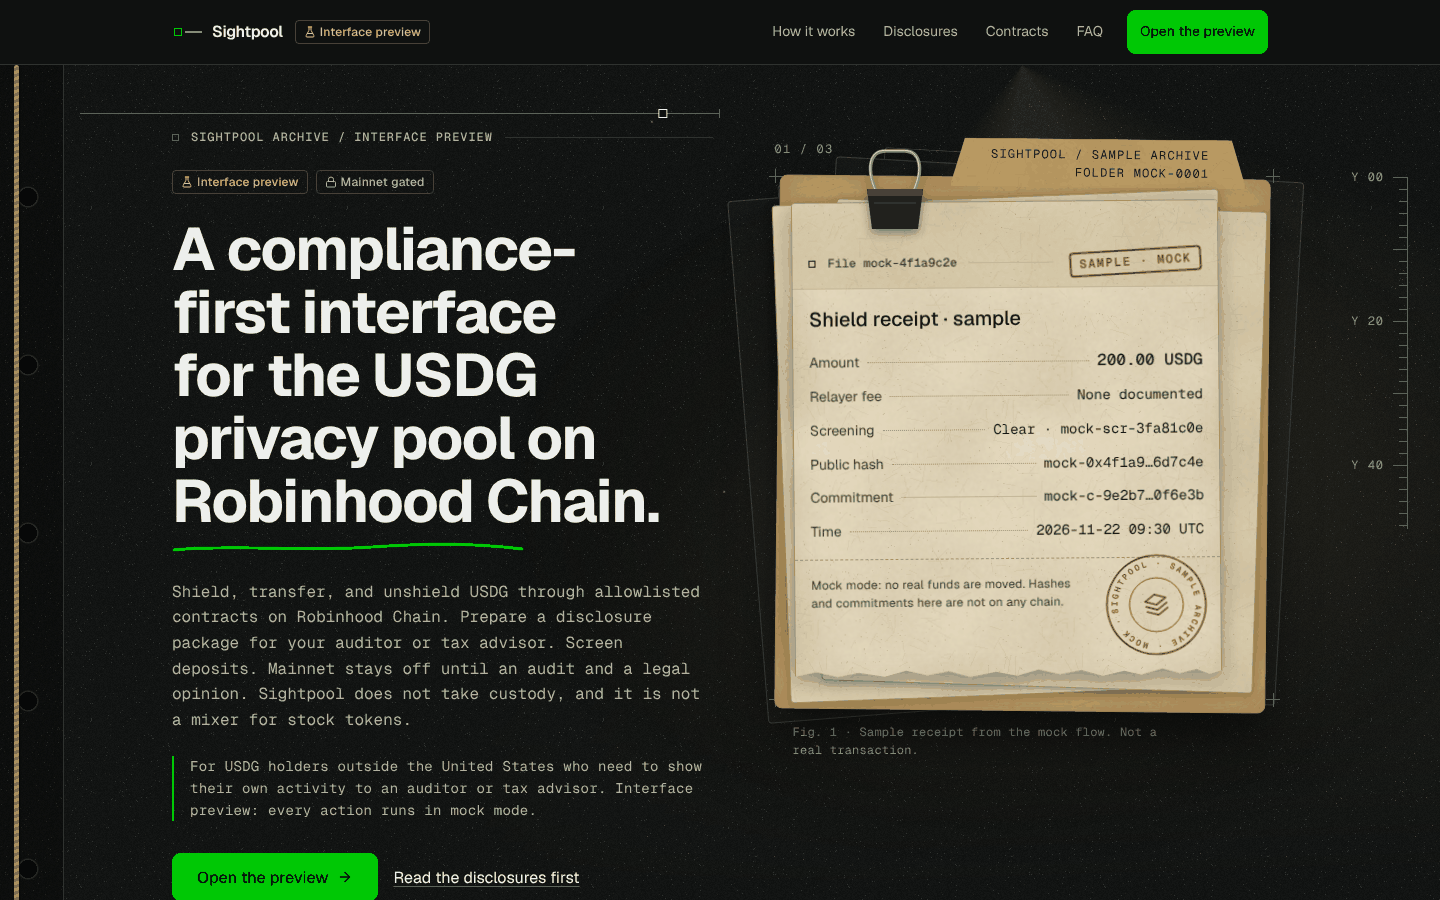
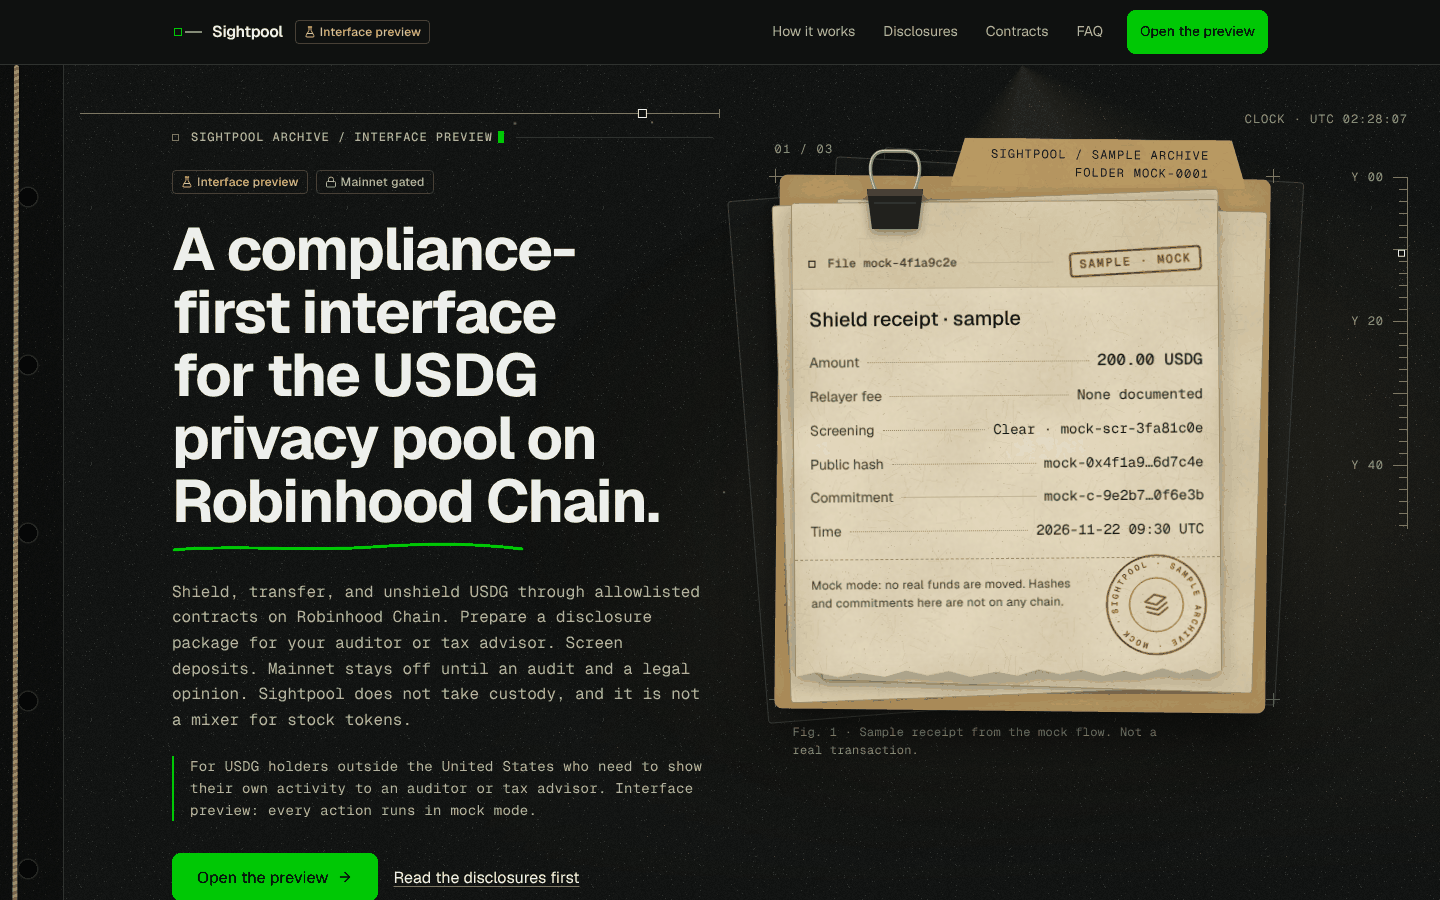
Hero: always-moving details (ruler marker, rope, UTC clock, caret, denser dust, block refresh)
Claude-Session: https://claude.ai/code/session_015ap4d8WwcKqD9P9g4Makxz

Changed region(s): [[0.9062, 0.1244, 0.9688, 0.1556], [0.0, 0.9644, 0.0312, 0.9956]]

diff --git a/src/app/globals.css b/src/app/globals.css
@@ -461,6 +461,10 @@
     background-image: repeating-linear-gradient(160deg, var(--rope) 0 3px, #6e5d3d 3px 6px);
     border-radius: 3px;
     box-shadow: 1px 0 2px rgb(0 0 0 / 0.5);
+    transform-origin: 50% 0;
+  }
+  [data-live] .binder::before {
+    animation: sp-rope 9s ease-in-out infinite alternate;
   }
 
   /* The headline underline: one hand-drawn stroke in the accent. Decorative. */
@@ -577,7 +581,7 @@
     animation: sp-mote 30s linear infinite;
   }
   @media (max-width: 47.99rem) {
-    .ambience-mote:nth-child(n + 9) {
+    .ambience-mote:nth-child(n + 13) {
       display: none;
     }
   }
@@ -671,6 +675,56 @@
   }
   [data-live] .sl-run-marker {
     animation: sp-run-marker var(--amb-line-cycle) linear 0.8s infinite;
+  }
+
+  /* Always-moving details, all small: a marker on the ruler, a UTC clock from the browser, a caret after the hero label.
+     Each rests hidden or in place without animation, so motion off leaves a complete still picture. */
+  .sl-ruler-marker {
+    position: absolute;
+    top: -3px;
+    right: 3px;
+    width: 7px;
+    height: 7px;
+    border: 1px solid var(--text);
+    background: var(--bg);
+  }
+  [data-live] .sl-ruler-marker {
+    animation: sp-ruler-marker 18s ease-in-out infinite alternate;
+  }
+  .amb-clock {
+    display: none;
+    position: absolute;
+    top: 3rem;
+    right: var(--sp-8);
+    font-family: var(--font-code);
+    font-size: var(--fs-12);
+    line-height: 1;
+    letter-spacing: 0.08em;
+    text-transform: uppercase;
+    white-space: nowrap;
+    color: var(--text-faint);
+    animation: sp-amb-fade 0.6s var(--easing-out) 1.1s backwards;
+  }
+  .amb-clock .num {
+    display: inline-block;
+    min-width: 8ch;
+  }
+  @media (min-width: 48rem) {
+    .amb-clock {
+      display: block;
+    }
+  }
+  .amb-caret {
+    display: inline-block;
+    width: 0.55em;
+    height: 1em;
+    margin-left: 0.4em;
+    vertical-align: -0.15em;
+    background: var(--accent);
+    opacity: 0;
+  }
+  [data-live] .amb-caret {
+    animation: sp-caret 1.1s steps(1, end) infinite;
   }
 
   /* Archival depth behind the receipt: two outlined silhouettes, four registration marks and a decorative number.
@@ -856,6 +910,40 @@
       opacity: 0;
     }
   }
+  @keyframes sp-ruler-marker {
+    from {
+      transform: translate3d(0, 0, 0);
+    }
+    to {
+      transform: translate3d(0, 22rem, 0);
+    }
+  }
+  @keyframes sp-rope {
+    from {
+      transform: rotate(-0.15deg);
+    }
+    to {
+      transform: rotate(0.2deg);
+    }
+  }
+  @keyframes sp-caret {
+    0%,
+    55% {
+      opacity: 1;
+    }
+    56%,
+    100% {
+      opacity: 0;
+    }
+  }
+  @keyframes sp-tick {
+    from {
+      opacity: 0.35;
+    }
+    to {
+      opacity: 1;
+    }
+  }
   @keyframes sp-run {
     0% {
       opacity: 0;
@@ -921,6 +1009,10 @@
     to {
       transform: translate3d(0, 0, 0) rotate(3.2deg);
     }
+  }
+
+  .block-tick {
+    animation: sp-tick 0.5s var(--easing-out);
   }
 
   .skeleton {

diff --git a/e2e/motion.spec.ts b/e2e/motion.spec.ts
@@ -104,3 +104,44 @@ test("tablet 768: the decorative folders never cause sideways scrolling", async 
   const width = await page.evaluate(() => document.documentElement.scrollWidth);
   expect(width).toBeLessThanOrEqual(768);
 });
+
+test.describe("always-moving details", () => {
+  test.use({ viewport: { width: 1440, height: 900 } });
+
+  test("ruler marker, rope, caret and dust run; the clock ticks; Pause motion stops them", async ({ page }) => {
+    await page.goto("/");
+    const name = (sel: string, pseudo?: string) => page.locator(sel).first().evaluate((e, p) => getComputedStyle(e, p ?? null).animationName, pseudo);
+    await expect.poll(() => name(".sl-ruler-marker")).toBe("sp-ruler-marker");
+    await expect.poll(() => name(".binder", "::before")).toBe("sp-rope");
+    await expect.poll(() => name(".amb-caret")).toBe("sp-caret");
+    await expect.poll(() => name(".ambience-mote")).toBe("sp-mote");
+    const clock = page.locator(".amb-clock .num");
+    await expect(clock).toHaveText(/^\d\d:\d\d:\d\d$/);
+    const first = await clock.textContent();
+    await expect.poll(() => clock.textContent(), { timeout: 4000 }).not.toBe(first);
+    // the clock says what it is
+    await expect(page.locator(".amb-clock")).toContainText("Clock · UTC");
+    await page.getByRole("button", { name: "Pause motion" }).click();
+    expect(await name(".sl-ruler-marker")).toBe("none");
+    expect(await name(".binder", "::before")).toBe("none");
+    expect(await name(".amb-caret")).toBe("none");
+    // a frozen display never shows a second
+    await expect(clock).toHaveText(/^\d\d:\d\d$/);
+    const hidden = await page.locator(".amb-caret").evaluate((e) => getComputedStyle(e).opacity);
+    expect(hidden).toBe("0");
+  });
+
+  test("the block number is read again while the tab stays open", async ({ page }) => {
+    await page.clock.install();
+    let reads = 0;
+    page.on("request", (r) => {
+      if (r.url().includes("/api/rpc") && (r.postData() ?? "").includes("eth_blockNumber")) reads += 1;
+    });
+    await page.goto("/");
+    await expect(page.getByRole("region", { name: "Current status" }).getByText(/Block \d/)).toBeVisible();
+    const initial = reads;
+    await page.clock.runFor(21_000);
+    await expect.poll(() => reads).toBeGreaterThan(initial);
+    await expect(page.getByRole("region", { name: "Current status" }).getByText(/Block \d/)).toBeVisible();
+  });
+});

diff --git a/src/components/site/status-strip.tsx b/src/components/site/status-strip.tsx
@@ -8,6 +8,9 @@ import { readBlockNumber, readChainId, readHasCode, readPaused } from "@/lib/rpc
 import { Dash } from "@/components/ui/statement";
 import { cn } from "@/lib/cn";
 
+/** The block number is read again at this interval while the tab is visible. Read-only, one small request. */
+const REFRESH_MS = 20_000;
+
 type Live = { loading: boolean; chainOk: boolean | null; block: bigint | null; poolCode: boolean | null; paused: boolean | null };
 
 /**
@@ -22,8 +25,17 @@ export function StatusStrip({ className }: { className?: string }) {
       const [chain, block, code, paused] = await Promise.all([readChainId(), readBlockNumber(), readHasCode(USDG_POOL), readPaused(USDG)]);
       if (alive) setLive({ loading: false, chainOk: chain === null ? null : chain.toLowerCase() === CHAIN_ID_HEX, block, poolCode: code, paused });
     })();
+    const refresh = async () => {
+      if (document.hidden) return;
+      const block = await readBlockNumber();
+      if (alive) setLive((l) => (l.loading ? l : { ...l, block }));
+    };
+    const id = window.setInterval(refresh, REFRESH_MS);
+    document.addEventListener("visibilitychange", refresh);
     return () => {
       alive = false;
+      window.clearInterval(id);
+      document.removeEventListener("visibilitychange", refresh);
     };
   }, []);
 
@@ -34,7 +46,7 @@ export function StatusStrip({ className }: { className?: string }) {
     { k: "Underlying pool audit", v: config.poolAuditReportUrl ? <a className="link" href={config.poolAuditReportUrl}>Report</a> : "None on record" },
     {
       k: "Robinhood Chain",
-      v: live.loading ? <span className="skeleton inline-block h-3 w-16 align-middle" aria-label="Loading" /> : live.chainOk && live.block !== null ? <span className="num">Block {live.block.toLocaleString("en-US")}</span> : <Dash label="not readable right now" />,
+      v: live.loading ? <span className="skeleton inline-block h-3 w-16 align-middle" aria-label="Loading" /> : live.chainOk && live.block !== null ? <span key={String(live.block)} className="num block-tick">Block {live.block.toLocaleString("en-US")}</span> : <Dash label="not readable right now" />,
     },
     {
       k: "USDG pool contract",

diff --git a/src/components/site/ambience.tsx b/src/components/site/ambience.tsx
@@ -1,5 +1,6 @@
 import type { CSSProperties } from "react";
 import { AMBIENCE } from "@config/ambience";
+import { ArchiveClock } from "@/components/site/archive-clock";
 
 /**
  * The live background behind the landing hero, as markup only. Motion is CSS (transform and opacity, plus one
@@ -9,12 +10,14 @@ import { AMBIENCE } from "@config/ambience";
  *
  *   light      lamp cone, soft glow, and a shade that drifts behind the folder (about 26s per sway)
  *   dust       specks drifting through the light
+ *   marker     a small square that travels up and down the ruler without pause (with the ruler, wide screens)
+ *   clock      a UTC clock from the visitor's browser (tablet width up), labelled "Clock"
  *   sightlines a static ruler with coordinate marks, and one line traced now and then with a small marker. It
  *              runs along the top of the hero, clear of the receipt and every value on it.
  *
  * Specks are placed by a fixed formula, so the markup is identical on every build.
  */
-const MOTES = Array.from({ length: 18 }, (_, i) => {
+const MOTES = Array.from({ length: 26 }, (_, i) => {
   const r = (n: number) => {
     const x = Math.sin(i * 12.9898 + n * 78.233) * 43758.5453;
     return x - Math.floor(x);
@@ -25,7 +28,7 @@ const MOTES = Array.from({ length: 18 }, (_, i) => {
     size: 1 + Math.round(r(3) * 2),
     dur: 22 + r(4) * 26,
     delay: -r(5) * 40,
-    o: 0.2 + r(6) * 0.22,
+    o: 0.3 + r(6) * 0.2,
     dx: Math.round((r(7) - 0.5) * 64),
   };
 });
@@ -69,6 +72,7 @@ export function Ambience() {
               <span className="sl-label" style={{ top: 0 }}>y 00</span>
               <span className="sl-label" style={{ top: "9rem" }}>y 20</span>
               <span className="sl-label" style={{ top: "18rem" }}>y 40</span>
+              {AMBIENCE.marker && <span className="sl-ruler-marker" />}
             </div>
             <div className="sl-run">
               <div className="sl-run-line" />
@@ -78,6 +82,7 @@ export function Ambience() {
           </>
         )}
       </div>
+      {AMBIENCE.clock && <ArchiveClock />}
     </div>
   );
 }

diff --git a/src/components/site/archive-clock.tsx b/src/components/site/archive-clock.tsx
@@ -1,0 +1,40 @@
+"use client";
+import { useEffect, useRef, useState } from "react";
+
+/**
+ * A small clock in UTC, read from the visitor's own browser. It is decoration, not data: the label says "Clock", not
+ * a chain or pool status. While the stage runs it shows seconds; when motion is off (hidden tab, off screen, Pause
+ * motion, reduced motion) it shows hours and minutes only, so a frozen display can never pass for the current second.
+ * Server render and the first client render show a fixed placeholder of the same width, so nothing shifts.
+ */
+const PLACEHOLDER = "--:--:--";
+
+const two = (n: number) => String(n).padStart(2, "0");
+
+export function ArchiveClock() {
+  const [text, setText] = useState(PLACEHOLDER);
+  const ref = useRef<HTMLSpanElement>(null);
+
+  useEffect(() => {
+    const stage = ref.current?.closest<HTMLElement>("[data-stage]") ?? null;
+    const tick = () => {
+      if (document.hidden) return;
+      const d = new Date();
+      const running = stage?.dataset.run === "true";
+      setText(running ? `${two(d.getUTCHours())}:${two(d.getUTCMinutes())}:${two(d.getUTCSeconds())}` : `${two(d.getUTCHours())}:${two(d.getUTCMinutes())}`);
+    };
+    tick();
+    const id = window.setInterval(tick, 1000);
+    document.addEventListener("visibilitychange", tick);
+    return () => {
+      window.clearInterval(id);
+      document.removeEventListener("visibilitychange", tick);
+    };
+  }, []);
+
+  return (
+    <span ref={ref} aria-hidden className="amb-clock">
+      Clock · UTC <span className="num">{text}</span>
+    </span>
+  );
+}

diff --git a/src/app/page.tsx b/src/app/page.tsx
@@ -8,6 +8,7 @@ import { buttonClass } from "@/components/ui/button-styles";
 import { Badge } from "@/components/ui/badge";
 import { Address } from "@/components/ui/address";
 import { Paper, PaperBand, Stamp } from "@/components/ui/paper";
+import { AMBIENCE } from "@config/ambience";
 import { SightLine } from "@/components/ui/sightline";
 import { Row, Statement } from "@/components/ui/statement";
 import { StatusStrip } from "@/components/site/status-strip";
@@ -106,6 +107,7 @@ export default function Home() {
           <div className="flex flex-col gap-6">
             <SightLine className="font-mono">
               {brand.name} archive / interface preview
+              {AMBIENCE.caret && <span aria-hidden className="amb-caret" />}
             </SightLine>
             <div className="flex flex-wrap items-center gap-2">
               <Badge tone="mock">Interface preview</Badge>

diff --git a/config/ambience.ts b/config/ambience.ts
@@ -10,6 +10,14 @@ export const AMBIENCE = {
   dust: true,
   /** The ruler and coordinate marks (static) and the occasional traced line with a small marker. */
   sightlines: true,
+  /** A small marker that travels up and down the ruler without pause (wide screens, with the ruler). */
+  marker: true,
+  /** The rope on the binder edge sways a fraction of a degree (wide screens). */
+  rope: true,
+  /** A small clock in UTC from the visitor's own browser, top right (from tablet width up). Not chain data. */
+  clock: true,
+  /** A blinking caret after the hero label. */
+  caret: true,
   /** Outlined sheet silhouettes and registration marks behind the receipt. */
   depth: true,
   /** Cursor parallax on the decorative layers behind the receipt. Fine pointers only; never on touch. */

diff --git a/docs/DECISIONS.md b/docs/DECISIONS.md
@@ -65,6 +65,8 @@ Every decision taken without asking, with the reason. Newest facts are in `docs/
 
 **D-26. Live background v2: light, sight lines, archival depth, calm interaction.** Four decorative layers sit behind the hero, all `aria-hidden`, none carrying status or data. (1) Light and shade: the lamp cone, glow and a shade drift on a 26 s cycle, away from the headline and the buttons. (2) Sight lines: a ruler on wide screens (labels "y 00 / y 20 / y 40", no numbers from the chain) and one thin traced line with a small marker that travels, then fades; it never crosses a value on the receipt and implies no verification. (3) Archival depth: two ghost folders, registration marks and a decorative "01 / 03" behind the receipt, which moves 3 to 6 px with the cursor (fine pointers only). The receipt, its folder front and clip never move. (4) Scroll drift of 4% on the decorative group. Architecture: CSS-only animation of `transform`, `opacity`, `translate`; one small client controller (`hero-motion.tsx`) that eases pointer and scroll into inline `translate` on marked layers inside a rAF loop that stops when settled. Resting state is the base style, so with animation off the picture is complete. Entrance: the content is never hidden; archival layers fade in over 0.6 s, the ruler draws, the sheets settle by 2.4 s. The light, dust, traced line and loops start only after `load` plus an idle callback (`data-live`), because starting everything at once cost 4 to 8 Lighthouse points on a mobile profile. Pausing: hidden tab and off-screen (`data-run="false"`), `prefers-reduced-motion`, and a new "Pause motion" button in the footer (it did not exist before; it is stored in `localStorage` and sets `data-motion="paused"`). Intensity: `config/ambience.ts` switches and `--amb-*` tokens. Light stays at or below 9% so that `contrast:check` (12% blend) remains valid. Rejected: falling code or hashes, particle networks, anything that reads as a live transaction feed, blur or backdrop filters, third-party scripts.
 
+**D-27. Details that never stop moving.** Six small additions so that something is always in motion, each with a switch in `config/ambience.ts` (except the block refresh) and each in its resting state without animation. (1) A small square travels up and down the ruler (`marker`, with the ruler, wide screens). (2) The rope on the binder edge sways about a fifth of a degree (`rope`, wide screens). (3) A clock in UTC at the top right from tablet width up (`clock`). It is read from the visitor's own browser, the label says "Clock", it shows seconds only while the stage runs, and hours and minutes only when motion is off, so a frozen display cannot pass for the current second. It is not chain data. (4) More dust, a little brighter (26 specks, 12 on small screens; peak opacity 0.5). (5) A blinking caret after the hero label (`caret`). It sits outside the receipt on purpose: the receipt stays untouched. (6) The block number in the status strip is read again every 20 seconds while the tab is visible and once more when the tab comes back; a failed refresh shows a dash, never an old number; the label now says "Robinhood Chain, read-only". This is data, not decoration, so Pause motion does not stop it; it is the only part of this list that makes requests (one small read-only call per 20 s per open visible tab). Rejected again: a scan line over the receipt (implies verification), falling hashes (reads as a transaction feed).
+
 ## Open decisions for the owner
 
 **O-1. Accent colour.** `--accent: #00c805` follows the brief. From memory, and not verified, this matches Robinhood's brand green, and the product names Robinhood Chain: risk of implied affiliation. A ready non-green alternative ships: set `data-accent="alt"` on `<html>` (bone `#e6dcc3` with dark text, AA-checked by `pnpm contrast:check`). The footer carries an affiliation disclaimer either way.

diff --git a/README.md b/README.md
@@ -43,9 +43,10 @@ The hero background is decorative and starts after the page has loaded. Ways to 
 
 | What | How |
 | --- | --- |
-| Switch one effect off for everyone | `config/ambience.ts`: set `light`, `dust`, `sightlines`, `depth`, `parallax` or `scroll` to `false`, then rebuild. |
+| Switch one effect off for everyone | `config/ambience.ts`: set `light`, `dust`, `sightlines`, `marker`, `rope`, `clock`, `caret`, `depth`, `parallax` or `scroll` to `false`, then rebuild. |
 | Change intensity | `src/styles/tokens.css`: `--amb-light` (keep at or below 0.09 or re-check contrast), `--amb-cycle`, `--amb-line-cycle`, `--amb-parallax` (px, 3 to 6), `--amb-scroll`. |
 | Switch everything off for a visitor | The "Pause motion" button in the footer, or the system setting "reduce motion". The picture stays complete, only still. |
+| Block refresh interval | `REFRESH_MS` in `src/components/site/status-strip.tsx` (read-only request while the tab is visible). |
 | Check | `pnpm e2e` (`e2e/motion.spec.ts`) and `pnpm contrast:check`. |
 
 ## Deploy (Cloudflare Pages, free tier)
